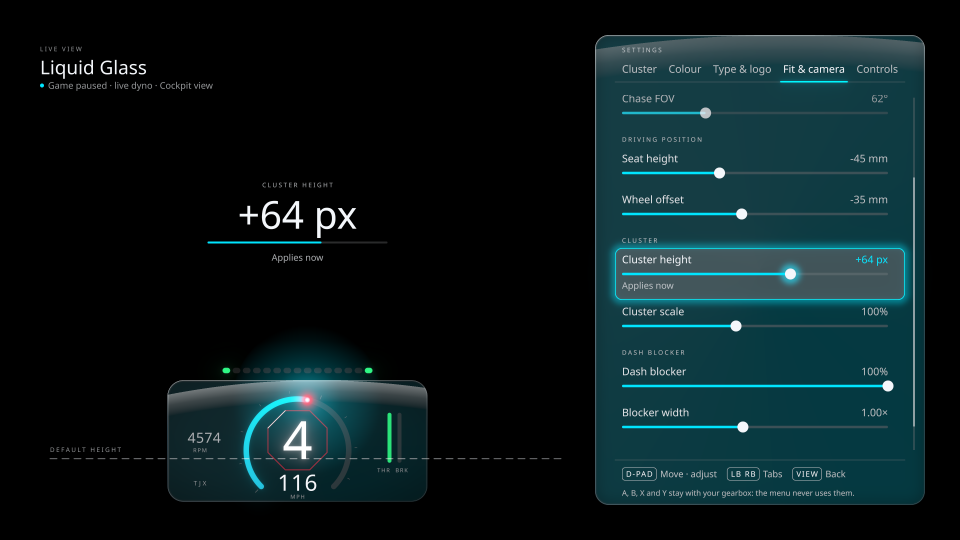
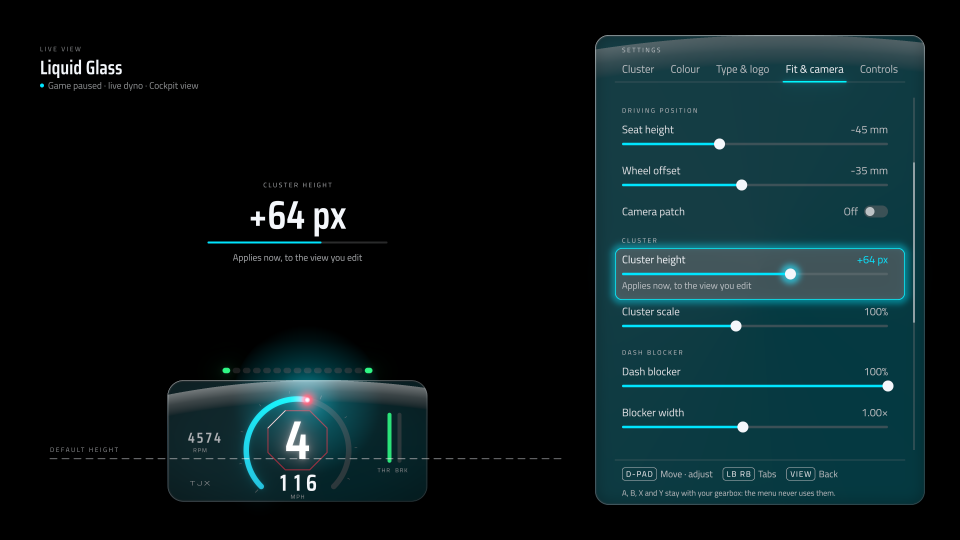
Phase 9 handover: HANDOVER.md, PROGRESS (state after Phase 9, defects 13-15, decisions), OSD spec and perf report on the merged branch, refreshed OSD renders, post-merge shot

diff --git a/program/phases/09-osd/HANDOVER.md b/program/phases/09-osd/HANDOVER.md
@@ -1,0 +1,79 @@
+# HANDOVER: Phase 9 · Controller-first Liquid Glass OSD
+
+**Chat / branch:** `claude/phase-9-osd-1fcc97`  **Date:** 2026-11-23  **Result:** ✅ complete (Figma page blocked by the plan; HTML board used as the reference, as in Phase 3)
+
+Main (6ccf761, Phases 6 and 8) is merged into the branch (63b1682) and every gate below ran on the merged tree.
+
+## Exit criteria
+| Criterion (copied from the MASTER_PROMPT) | Met? | Evidence (command output, file, screenshot) |
+|---|---|---|
+| Workspace check, test and clippy are green. | ✅ | Verification output below: check clean, test 366 passed, 0 failed, 1 ignored, clippy `-D warnings` clean, fmt clean, parity 20/20, wasm build |
+| The Figma page is done. | ◐ fallback | The remote Figma MCP returned the Starter-plan tool-call cap on the first `use_figma` write (`docs/design/FIGMA.md`). Reference instead: `docs/design/boards/osd/index.html` (every state, real renders) and `docs/design/OSD.md` |
+| 4K OSD renders (each tab, plus focus and slider states) are in `mockups/osd/`, with the critique passed. | ✅ | 11 states from `cargo run --release -p preview-export` in `mockups/osd/` (gitignored), 960×540 copies in `docs/design/osd/`. Critique round 1 fail (6 must-fixes, all fixed), round 2 **pass** (`docs/design/OSD.md` § Critique) |
+| The live view works in `--demo`, and the perf numbers are in `docs/perf/osd.md`. | ✅ | `FH6_WheelDash --demo --open-osd` shows the live dyno ("Game paused · live dyno"). GPU 1.26–1.32 ms median for the whole OSD at 4K (target < 1.5). CPU p50 0.99 ms, p99 2.24 ms (defect 13) |
+| A manual run with screenshots shows the controller toggle, navigation and live-applied changes. | ✅ | `docs/handover-shots/phase9-01…07` (scripted pad `phase9-osd-tour.pad` through the real tracker: hold View to open, LB/RB tabs, D-pad carousel, custom hue, cluster height held to +120 px live, Controls, closed with the new settings); `phase9-08-merged-fit-tab.png` from the merged release build (pack fonts, Camera patch row, per-view cluster height). Earlier run log: "OSD opened mid-race: ESC sent to pause the game" |
+
+## What was built
+- **`crates/fh6-osd`** (new crate): `model` (5-tab row model, values, help, `PROFILE_OVERRIDE_NOTE`), `nav` (state machine, hold-to-repeat with acceleration, `focus_row`), `keyboard` (on-screen, D-pad), `remap` (hold 1 s, ABXY and D-pad refused), `pause` (`AutoPause` behind `KeyboardInjector`), `saver` (debounced 350 ms, UTF-8 without BOM), `dyno`, `anim`, `fit` (`CockpitFit` seam, `SCRIM_ROWS`, `ConfigOnlyFit`), `draw` (kit drawing, live backing with the real blocker), `host` (`OsdHost`: carousel thumbnails, `note_profile`, `blocker_focused`).
+- **`crates/fh6-app`**: OSD wiring in `render_loop.rs` (open and close edges, working config followed until the saved file reloads, `rows_cfg` vs `cfg`, live blocker preview), `osd_fit.rs` (`PatcherFit` over Phase 8's `CameraPatchHandle` and `InputShared::resync_camera`), `--pad-script` and `--open-osd`.
+- **`crates/fh6-input`**: press/release latches (`take_edges`), the hold toggle suspended while the OSD has focus, `PadScript` / `ScriptedPad`.
+- **`crates/fh6-win`**: `SendInput` key taps for the auto-pause ESC.
+- **`crates/fh6-kit`**: `Kit::set_underlay` (dim in the resolve), `Painter::set_backdrops(false)` (thumbnails), font-pack loading from `assets/fonts/fonts.json` (`Fonts::load_dir`, variable-font instances, deferred glyph preload with `ensure_preloaded`, typographic family names, cached kerning plans).
+- **`tools/preview-export`**: the 11 OSD states with GPU timings, `--backdrop PNG`.
+- **Docs:** `docs/design/OSD.md`, `docs/design/boards/osd/index.html`, `docs/design/osd/*.png`, `docs/perf/osd.md`, `docs/handover-shots/phase9-*`, PROGRESS, AGENTS.
+- **Workspace:** dev-profile `opt-level = 3` for rustybuzz, ttf-parser, fdsm and nalgebra (text tests 34.6 s → 2.1 s). No new dependency.
+
+## Verification output
+```
+$ cargo check --workspace
+warning: `web-preview` (manifest) generated 1 warning   (unused dependency fh6-clusters, as on main)
+    Finished `dev` profile [unoptimized + debuginfo] target(s) in 13.55s
+$ cargo clippy --workspace --all-targets -- -D warnings
+    Finished `dev` profile [unoptimized + debuginfo] target(s) in 2.00s
+$ cargo fmt --all -- --check
+fmt ok
+$ cargo test --workspace   (sum of every "test result" line)
+TOTAL passed=366 failed=0 ignored=1
+$ cargo run -p parity-dump -- tests/golden/packets
+OK tests/golden/packets\19.bin
+OK tests/golden/packets\20.bin
+20/20 OK
+$ cargo build -p fh6-kit --target wasm32-unknown-unknown
+wasm ok
+```
+GPU per OSD state (`preview-export`, merged branch, pack fonts loaded: 81 faces, 9 roles), median / min ms:
+```
+01 1.316/1.269  02 1.302/1.298  03 1.271/1.265  04 1.267/1.212  05 1.263/1.177  06 1.297/1.245
+07 1.277/1.245  08 1.297/1.287  09 1.287/1.202  10 1.300/1.218  11 1.287/1.253
+```
+Post-merge scripted run (release build, `--demo`, copy of `config.json`): log "OSD toggled by hold open=true", "OSD opened view=Cockpit", "OSD closed"; the saved copy has `CockpitHeightOffsetPx: 240.0` (held Right on Cluster height) and `CameraPatchAuto: false` (the tour never touches the patch switch).
+
+## Visuals
+- `docs/design/boards/osd/index.html` (board), `docs/design/osd/01…11` (renders), full size in `mockups/osd/`.
+- `docs/handover-shots/phase9-01-before-open.png` … `phase9-07-closed-new-settings.png`, `phase9-08-merged-fit-tab.png`.
+
+## My calls
+- **Figma fallback to the HTML board:** the plan's MCP cap blocks writes; same call as Phase 3.
+- **Dim harder (62%) instead of blurring the game:** the overlay never captures the game, so it cannot blur it; feathered pools behind the echo and the live cluster keep text legible.
+- **Rows edit the global config; the live view shows the car's profile on top** and an overridden row says so. Per-car editing needs a save target per row and is Phase 10's configurator work.
+- **Camera rows follow the patch switch:** "Applies on next launch" when on, "saved in config only" when off, "camera files not found" when the patcher has no install. The Cockpit FOV row shows the wheel-less FOV, which is the value the patcher writes.
+- **No OSD while the overlay is hidden from the tray** (and so no ESC): an OSD nobody can see must not pause the game.
+- **The dyno keeps the last raced car's profile**, so the live view while paused shows what that car really gets.
+- **Dev opt-level for the text crates:** debug text tests were 34.6 s; release behaviour unchanged.
+- **Screenshots of the merged build:** only one kept (08). In later runs the desktop app took the z-order over the stand-in mid-run and showed through the glass, so those captures were deleted; the pre-merge set 01–07 still shows the full tour.
+
+## Known issues / debt
+- **Pause-menu acceptance shot:** the OSD over the real Forza pause menu needs TJX in the game (deploy guard).
+- **Critique carry-overs:** LB/RB chips in the tab row; a live preview of the draft custom name.
+- **CPU p99 with the OSD open:** 2.24 ms (defect 13). Paused-only, shares the Phase 4/5 levers.
+- **Unverified review items** (defect 14): custom name cleared then restored by the config migration on reload; seat height reverted on reload when a legacy `CockpitOffsetY` remains; a face marked preloaded when the glyph atlas is full; the open-edge ESC judges "racing" from a packet up to 250 ms old. The review's behaviour pass stopped at the usage limit, so that dimension is not covered.
+- **CJK:** the pack has no CJK glyphs (defect 15).
+- **Torn captures:** `screen-capture` (BitBlt) can tear on a DirectComposition overlay mid-animation; capture on settled frames.
+
+## What the next phases must know
+- **Cockpit-fit seam:** `fh6_osd::fit::CockpitFit` (`camera_changed`, `scrim_rows`, `can_resync`, `resync`). The app passes `fh6_app::osd_fit::PatcherFit`; previews and tests use `ConfigOnlyFit`. Blocker rows live in `fh6_osd::SCRIM_ROWS` (9 rows over the `OemDash*` keys with Phase 8's sanitised ranges).
+- **Two configs per frame while open:** `rows_cfg` is the global working config (rows, update, draw, prepare, `blocker_focused`); `cfg` is `CarConfig::resolve(rows_cfg, profiles, car_ordinal)` for the live cluster. `OsdHost::note_profile(&rows_cfg, &cfg)` sets the "profile overrides" help and the default-height line. Phase 10 per-car editing should save through `CarProfilesFile::upsert` and can drop the note for rows it saves per car.
+- **Font pack API:** `Fonts::load_dir(dir)` reads `fonts.json` (or scans the folder and subfolders), one face per weight in 300/400/500/600 for variable fonts, glyph preload deferred until `ensure_preloaded(FontId)` or `set_role(role, FontId)`. `MAX_FACES` is 160. The family name is the manifest's, else name ID 16, else ID 1.
+- **Extra config keys** (in `AppConfig::extra`, `model::KEY_*`): `ShiftPointPct`, `PaletteSeed`, `ClusterFont`, `ShowLogo`, `ShowStats`, `GlassRefraction`, `ReducedFlash`.
+- **Manual runs without a controller:** `FH6_WheelDash --demo --pad-script <file> --game-process fh6-stand-in.exe --config <copy>`; `--open-osd` opens it at start. The script goes through the real tracker, so A/B/X/Y are stripped. Start the stand-in first and keep other windows off the screen while capturing.
+- **Never** read A/B/X/Y (`MASK_MANUAL_LOCK`); the OSD live view lifts race-off and stale only, never the foreground or tray-hidden rules.

diff --git a/docs/PROGRESS.md b/docs/PROGRESS.md
@@ -14,7 +14,7 @@ The v2 build program is running. See [program/README.md](../program/README.md) f
 | 5 GPU render kit | ✅ 2026-11-22 (branch `claude/phase-5-render-kit-d6906d`, see `program/phases/05-render-kit/HANDOVER.md`) |
 | 6 Assets, logos & fonts | ✅ 2026-11-22 (branch `claude/objective-euclid-13487b`, see `program/phases/06-assets/HANDOVER.md`) |
 | 8 Cockpit fit | ✅ 2026-11-22 (branch `claude/phase-8-cockpit-fit-7daeb6`, see `program/phases/08-cockpit-fit/HANDOVER.md`) |
-| 9 Controller-first Liquid Glass OSD | ✅ 2026-11-22 (branch `claude/phase-9-osd-1fcc97`, see `program/phases/09-osd/HANDOVER.md`) |
+| 9 Controller-first Liquid Glass OSD | ✅ 2026-11-23 (branch `claude/phase-9-osd-1fcc97`, merged with Phases 6 and 8; see `program/phases/09-osd/HANDOVER.md`) |
 | 7, 10, 11 | ☐ waiting on dependencies (7 setup started) |
 
 ## Runtime audit (2026-11-20): why v2 exists
@@ -36,6 +36,23 @@ The v2 build program is running. See [program/README.md](../program/README.md) f
 - **Visibility:** nothing hides the overlay in menus or out of focus. (Phase 4)
 - **OSD:** the dyno is a fixed frame, ESC injection is mocked, and LB/RB tab switching is a no-op. (Phase 9)
 - **Logos and brand colours:** no logo support, and brand palettes are never applied at runtime. (Phases 5, 6 and 7)
+
+## State of the code (after Phase 9, 2026-11-23)
+| Check | Result |
+|---|---|
+| `cargo check --workspace` | ✅ no warnings (the `tools/web-preview` manifest note, as on main) |
+| `cargo test --workspace` | ✅ 366 passed, 0 failed, 1 ignored |
+| `cargo clippy --workspace --all-targets -- -D warnings` | ✅ clean |
+| `cargo fmt --all -- --check` | ✅ clean |
+| `parity-dump tests/golden/packets` | ✅ 20/20 OK |
+| `cargo build -p fh6-kit --target wasm32-unknown-unknown` | ✅ |
+
+What Phase 9 added:
+- **`crates/fh6-osd`:** the controller-first Liquid Glass OSD (spec `docs/design/OSD.md`): 5-tab row model, navigation with hold-to-repeat, on-screen keyboard, remapper, auto-pause behind `KeyboardInjector`, debounced saver, live dyno, carousel thumbnails, and the `CockpitFit` seam.
+- **App wiring:** open and close edges in the render loop, the live view over the paused game, `PatcherFit` on Phase 8's camera patcher, nine blocker rows with a live blocker preview, per-view cluster height, and a "profile overrides" note for per-car settings.
+- **Kit:** `Kit::set_underlay`, `Painter::set_backdrops(false)`, and font-pack loading from `assets/fonts/fonts.json` (variable-font instances, deferred glyph preload, cached kerning plans).
+- **Input:** press/release latches, the hold toggle suspended while the OSD has focus, `--pad-script` and `--open-osd` for manual runs without a controller.
+- **Perf:** 1.26–1.32 ms GPU for the whole OSD at 4K (target 1.5); CPU p50 0.99 ms, p99 2.24 ms with the OSD open (defect 13). See `docs/perf/osd.md`.
 
 ## State of the code (after Phase 8, 2026-11-22)
 | Check | Result |
@@ -126,6 +143,9 @@ What exists:
 5. `fh6-render::oem_scrim::mount` (mount, visor lip, hub cap) is still a no-op.
 6. `fh6-render::pool::PaintPool` is a cache stub with no real paint objects.
 7. `assets/*.png` duplicates `assets/textures/4k/`. Pick one location when `AssetCache` is wired up.
+13. OSD-open CPU per frame p99 is 2.24 ms (p50 0.99 ms; dash only 0.76 / 1.48 ms), measured before the merge. The OSD shows only while the game is paused, so racing frames are not affected; it shares the Phase 4/5 p99 levers (`docs/perf/osd.md`).
+14. Phase 9 review items not yet verified (found by the branch review, not reproduced): clearing the custom name may come back after a reload (the config migration restores the default name); a seat height set in the OSD may be reverted on reload when the file still has a legacy `CockpitOffsetY`; a face is marked preloaded even when the glyph atlas is full (its text then falls back to Noto Sans); the open-edge ESC judges "racing" from a packet up to 250 ms old. See `program/phases/09-osd/HANDOVER.md`.
+15. The pack fonts have no CJK glyphs; a custom name or font family in CJK draws as missing glyphs. The on-screen keyboard only types Latin, so only hand-edited configs hit it.
 
 ## Backlog (not yet scheduled)
 **Pre-05A: Liquid Glass OSD and cockpit optics**
@@ -262,3 +282,6 @@ Bring every cluster up to `docs/specs/phase-8-materials-and-shaders.md`:
 | 2026-11-22 | `fh6_input::PadScript` and `--pad-script`, plus `--open-osd` | Repeatable manual runs and screenshots without a physical controller; the script goes through the same tracker, so A/B/X/Y are stripped |
 | 2026-11-22 | Phase 9 adds no dependency | — |
 | 2026-11-22 | The Phase 9 OSD page was not built in Figma: the Starter plan's MCP call cap returned on the first write. `docs/design/boards/osd/index.html` and `docs/design/OSD.md` are the reference | Same block as Phase 3 (docs/design/FIGMA.md) |
+| 2026-11-23 | Phase 9 merged with main (Phases 6 and 8) before the final gates: the OSD uses the Phase 8 `CameraPatchHandle` (`fh6-app::osd_fit::PatcherFit`), the nine `OemDash*` blocker rows, per-view cluster height and the typed `ChaseHudStyle`; it draws in the Phase 6 font pack | Main moved under the phase; the OSD binds to the real cockpit-fit model instead of the Phase 9 stand-ins |
+| 2026-11-23 | OSD rows edit the global config; the live view shows the car's profile on top, and an overridden row says so | Per-car editing needs a save target per row; Phase 10 owns per-car profiles in the configurator |
+| 2026-11-23 | Branch review fixes: no OSD (and no ESC) while the overlay is hidden from the tray; the dyno keeps the last raced car's profile; the Cockpit FOV row reads the wheel-less FOV the patcher writes; the chase glide starts from `ChaseAnchorX`; no per-frame assets clone; the car-profile log line fires only on a car or profiles change | Found by an adversarially verified review of the branch |

diff --git a/docs/design/OSD.md b/docs/design/OSD.md
@@ -15,7 +15,7 @@ Figma: the page could not be built. The remote Figma MCP answered `get_metadata`
 | Cluster | Edit view (Cockpit / Hood / Chase; the live view follows), Cluster (carousel of 5 live thumbnails, all 29 themes), Speed units, Power units, Shift point (80–100%), Limiter light (10 Hz strobe / Gentle pulse) |
 | Colour | Colour mode (Factory / Custom / Random). Factory: brand swatches. Custom: Colour (primary, secondary, accent, shift light), Hue on a spectrum track, Saturation, Brightness, Preset (6). Random: Re-roll, Same palette on every car. Then Glass refraction |
 | Type & logo | Font (pack default plus every loaded family), Logo, Custom name (on-screen keyboard, 14 characters) |
-| Fit & camera | Cockpit / Hood / Chase FOV (40–110°), Seat height (−100..+50 mm), Wheel offset (−80..+20 mm), Cluster height (±240 px), Cluster scale (70–140%), the dash-blocker rows from the cockpit-fit backend, Resync when offered. Camera rows show "Applies on next launch (camera file)" |
+| Fit & camera | Cockpit / Hood / Chase FOV (40–110°; Cockpit edits the wheel-less FOV the patcher writes), Seat height (−100..+50 mm), Wheel offset (−80..+20 mm), Camera patch (the `CameraPatchAuto` switch), Cluster height (±240 px, per view: the view being edited), Cluster scale (70–140%), the nine Phase 8 dash-blocker rows (opacity, width, height, crown arch, corner softness, left/right, up/down, edge feather, steering-column gap), Resync when the patcher offers it. Camera rows say "Applies on next launch (camera file)" when the patch is on, "Camera patch is off: saved in config only" when it is off, and that the camera files were not found when the patcher has no install |
 | Controls | OSD button (remapper), Hold time (200–1000 ms), Pause game when open, Stats overlay |
 
 ## Type, colour and focus
@@ -31,4 +31,9 @@ D-pad moves and adjusts (repeat after 280 ms, every 65 ms, every 25 ms after 900
 Open 200 ms (fade and a 64 px slide), cluster glide on the `default` spring, focus ring and tab underline on `fast`, scroll on `default`, a 150 ms crossfade on a tab change.
 
 ## Critique
-Round 1 (independent `ui-ux-designer` review of the renders): fail, with six must-fixes. Text below the 26 px floor, the backdrop on bright frames, rows hard-clipped by the scroll viewport, a ragged value edge, the crown sheen behind the header, and the missing font pack. All six were fixed or waived (fonts: see PROGRESS). Round 2: one must-fix, the help line overlapping the focus ring on focused rows. The focused row now grows to hold it (above). Re-review of 02, 06 and 07: **pass** for the Phase 9 exit. Carried over (not blocking): a check over the real pause menu, LB/RB chips in the tab row, the blocker outline preview, a live preview of the draft name. See `program/phases/09-osd/HANDOVER.md`.
+Round 1 (independent `ui-ux-designer` review of the renders): fail, with six must-fixes. Text below the 26 px floor, the backdrop on bright frames, rows hard-clipped by the scroll viewport, a ragged value edge, the crown sheen behind the header, and the missing font pack. All six were fixed or waived (fonts: see PROGRESS). Round 2: one must-fix, the help line overlapping the focus ring on focused rows. The focused row now grows to hold it (above). Re-review of 02, 06 and 07: **pass** for the Phase 9 exit. Carried over (not blocking): a check over the real pause menu, LB/RB chips in the tab row, a live preview of the draft name (the blocker preview is done, below). See `program/phases/09-osd/HANDOVER.md`.
+
+## After the merge with Phases 6 and 8
+- **Fonts.** The OSD draws in the Phase 6 motorsport pack (`assets/fonts/fonts.json`, per-family folders, variable fonts instanced at 300/400/500/600). The Phase 9 font waiver is closed.
+- **Live blocker preview.** While a dash-blocker row has focus, the live view draws the real Phase 8 dome and wash (`fh6_kit::scrim`) under the cluster, so every blocker change shows on the cluster it frames.
+- **Car profiles.** The rows show and edit the global `config.json`; the live view shows what the current car really gets (its `car_profiles.json` overlay on top). When the focused row reads differently for this car, its help line says "This car's profile overrides this setting", and the default-height line follows the car's anchor. Editing per-car values is Phase 10.

diff --git a/docs/perf/osd.md b/docs/perf/osd.md
@@ -1,6 +1,6 @@
 # OSD performance (Phase 9)
 
-All numbers on the development machine: RTX 3070 Ti Laptop GPU (DX12), 3840x2160, release builds, 2026-11-22.
+All numbers on the development machine: RTX 3070 Ti Laptop GPU (DX12), 3840x2160, release builds, 2026-11-22 (GPU table re-measured 2026-11-23 after the merge with Phases 6 and 8).
 
 Target (Phase 9 MASTER_PROMPT): under 1.5 ms GPU for the whole OSD at 4K.
 
@@ -8,7 +8,7 @@ Target (Phase 9 MASTER_PROMPT): under 1.5 ms GPU for the whole OSD at 4K.
 
 | Item | Result | Target |
 |---|---|---|
-| GPU, whole OSD frame (live cluster, glass panel, rows, focus bloom, underlay dim, scrims) | 1.28–1.48 ms median over the 11 states; carousel (with 5 live thumbnails) 1.37 ms, FOV schematic 1.48 ms | < 1.5 ms: **met** (06 has 0.02 ms headroom) |
+| GPU, whole OSD frame (live cluster, glass panel, rows, focus bloom, underlay dim, scrims) | 1.26–1.32 ms median over the 11 states, in the pack fonts; carousel (with 5 live thumbnails) 1.32 ms | < 1.5 ms: **met** (0.18 ms headroom) |
 | GPU, same frames before the optimisations below | 3.2 ms (8.0 ms with the carousel) | |
 | CPU per frame, OSD open (`--demo --open-osd`, 12 s) | 0.99 ms p50, 2.24 ms p99 | < 1 ms: **p50 met, p99 not met** |
 | CPU per frame, dash only (same run conditions) | 0.76 ms p50, 1.48 ms p99 | Phase 4/5 debt (p99) |
@@ -18,21 +18,21 @@ The extra CPU with the OSD open is almost all `Kit::render` packing and wgpu rec
 
 ## GPU per state (generated by `preview-export`)
 
-Whole-frame GPU time from timestamp queries around every pass (shape passes, glass backdrop, bloom, resolve). 100 frames are submitted back to back first so the laptop GPU clocks up, then 20 frames are timed one by one. Median and minimum in ms. One run after the critique round 2 fixes (taller focused rows with help, a 1400 px schematic), GPU idle (1%, 32 W) before the run. 3 layer segments per frame (live cluster glass, panel glass), 27 draw calls (35 with the carousel).
+Whole-frame GPU time from timestamp queries around every pass (shape passes, glass backdrop, bloom, resolve). 100 frames are submitted back to back first so the laptop GPU clocks up, then 20 frames are timed one by one. Median and minimum in ms. One run on the merged branch (Phase 6 font pack loaded: 81 faces, 9 roles; Phase 8 blocker rows and the live blocker preview in 08), with the GPU at about 20% from other work. 3 layer segments per frame (live cluster glass, panel glass), 27 draw calls (35 with the carousel).
 
 | State | GPU median | GPU min | draws |
 |---|---|---|---|
-| 01 Cluster tab, carousel focused | 1.373 | 1.274 | 35 |
-| 02 Cluster tab, editing the Hood view | 1.359 | 1.324 | 35 |
-| 03 Colour, custom, hue slider | 1.311 | 1.242 | 27 |
-| 04 Colour, random | 1.303 | 1.247 | 27 |
-| 05 Type & logo | 1.298 | 1.232 | 27 |
-| 06 Fit & camera, FOV + schematic | 1.478 | 1.417 | 27 |
-| 07 Fit & camera, cluster height | 1.283 | 1.231 | 27 |
-| 08 Fit & camera, dash blocker (scrolled) | 1.313 | 1.257 | 27 |
-| 09 Controls | 1.303 | 1.238 | 27 |
-| 10 On-screen keyboard | 1.286 | 1.217 | 27 |
-| 11 Remap capture | 1.276 | 1.223 | 27 |
+| 01 Cluster tab, carousel focused | 1.316 | 1.269 | 35 |
+| 02 Cluster tab, editing the Hood view | 1.302 | 1.298 | 35 |
+| 03 Colour, custom, hue slider | 1.271 | 1.265 | 27 |
+| 04 Colour, random | 1.267 | 1.212 | 27 |
+| 05 Type & logo | 1.263 | 1.177 | 27 |
+| 06 Fit & camera, FOV + schematic | 1.297 | 1.245 | 27 |
+| 07 Fit & camera, cluster height | 1.277 | 1.245 | 27 |
+| 08 Fit & camera, dash blocker + live blocker preview | 1.297 | 1.287 | 27 |
+| 09 Controls | 1.287 | 1.202 | 27 |
+| 10 On-screen keyboard | 1.300 | 1.218 | 27 |
+| 11 Remap capture | 1.287 | 1.253 | 27 |
 
 **Measurement caveat.** This GPU is shared with other work on the machine. During one session another process held it at 98% (127 W, 87 °C) and the same frames read 2.3–3.5 ms; with the GPU at 11–16% they read as above. `preview-export` now prints the minimum next to the median so contention is visible: when the two are close (as in the table), the number is clean.
 
